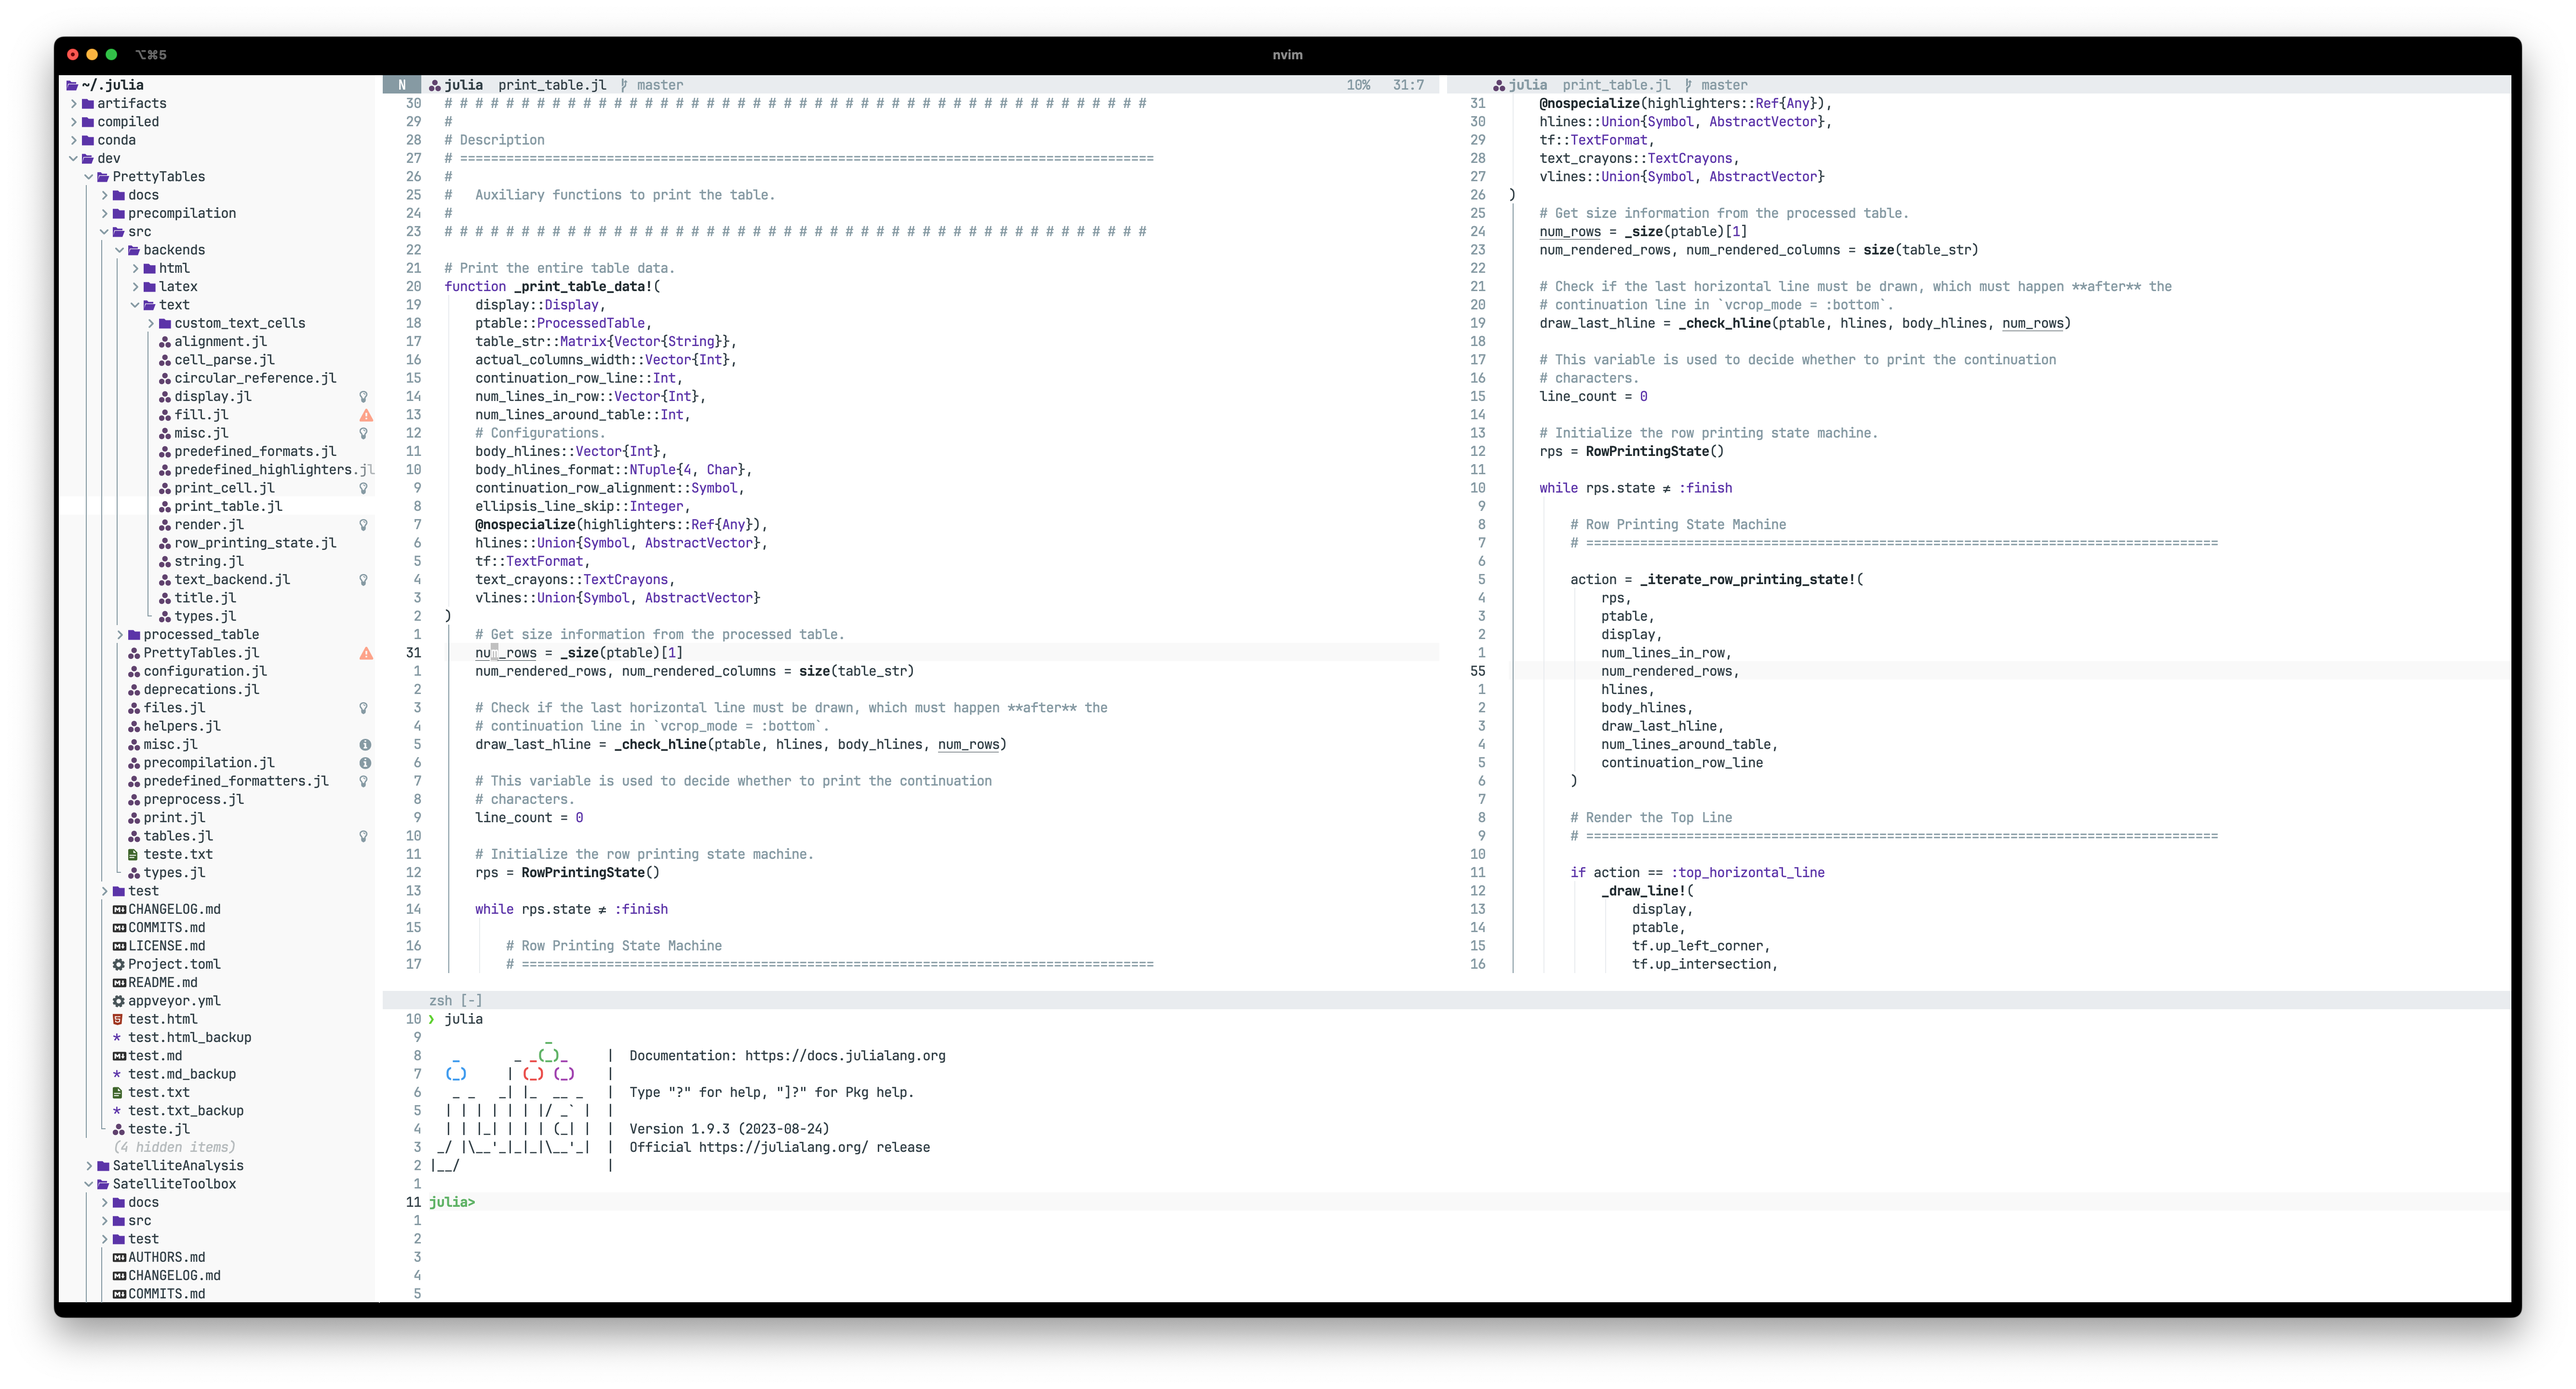
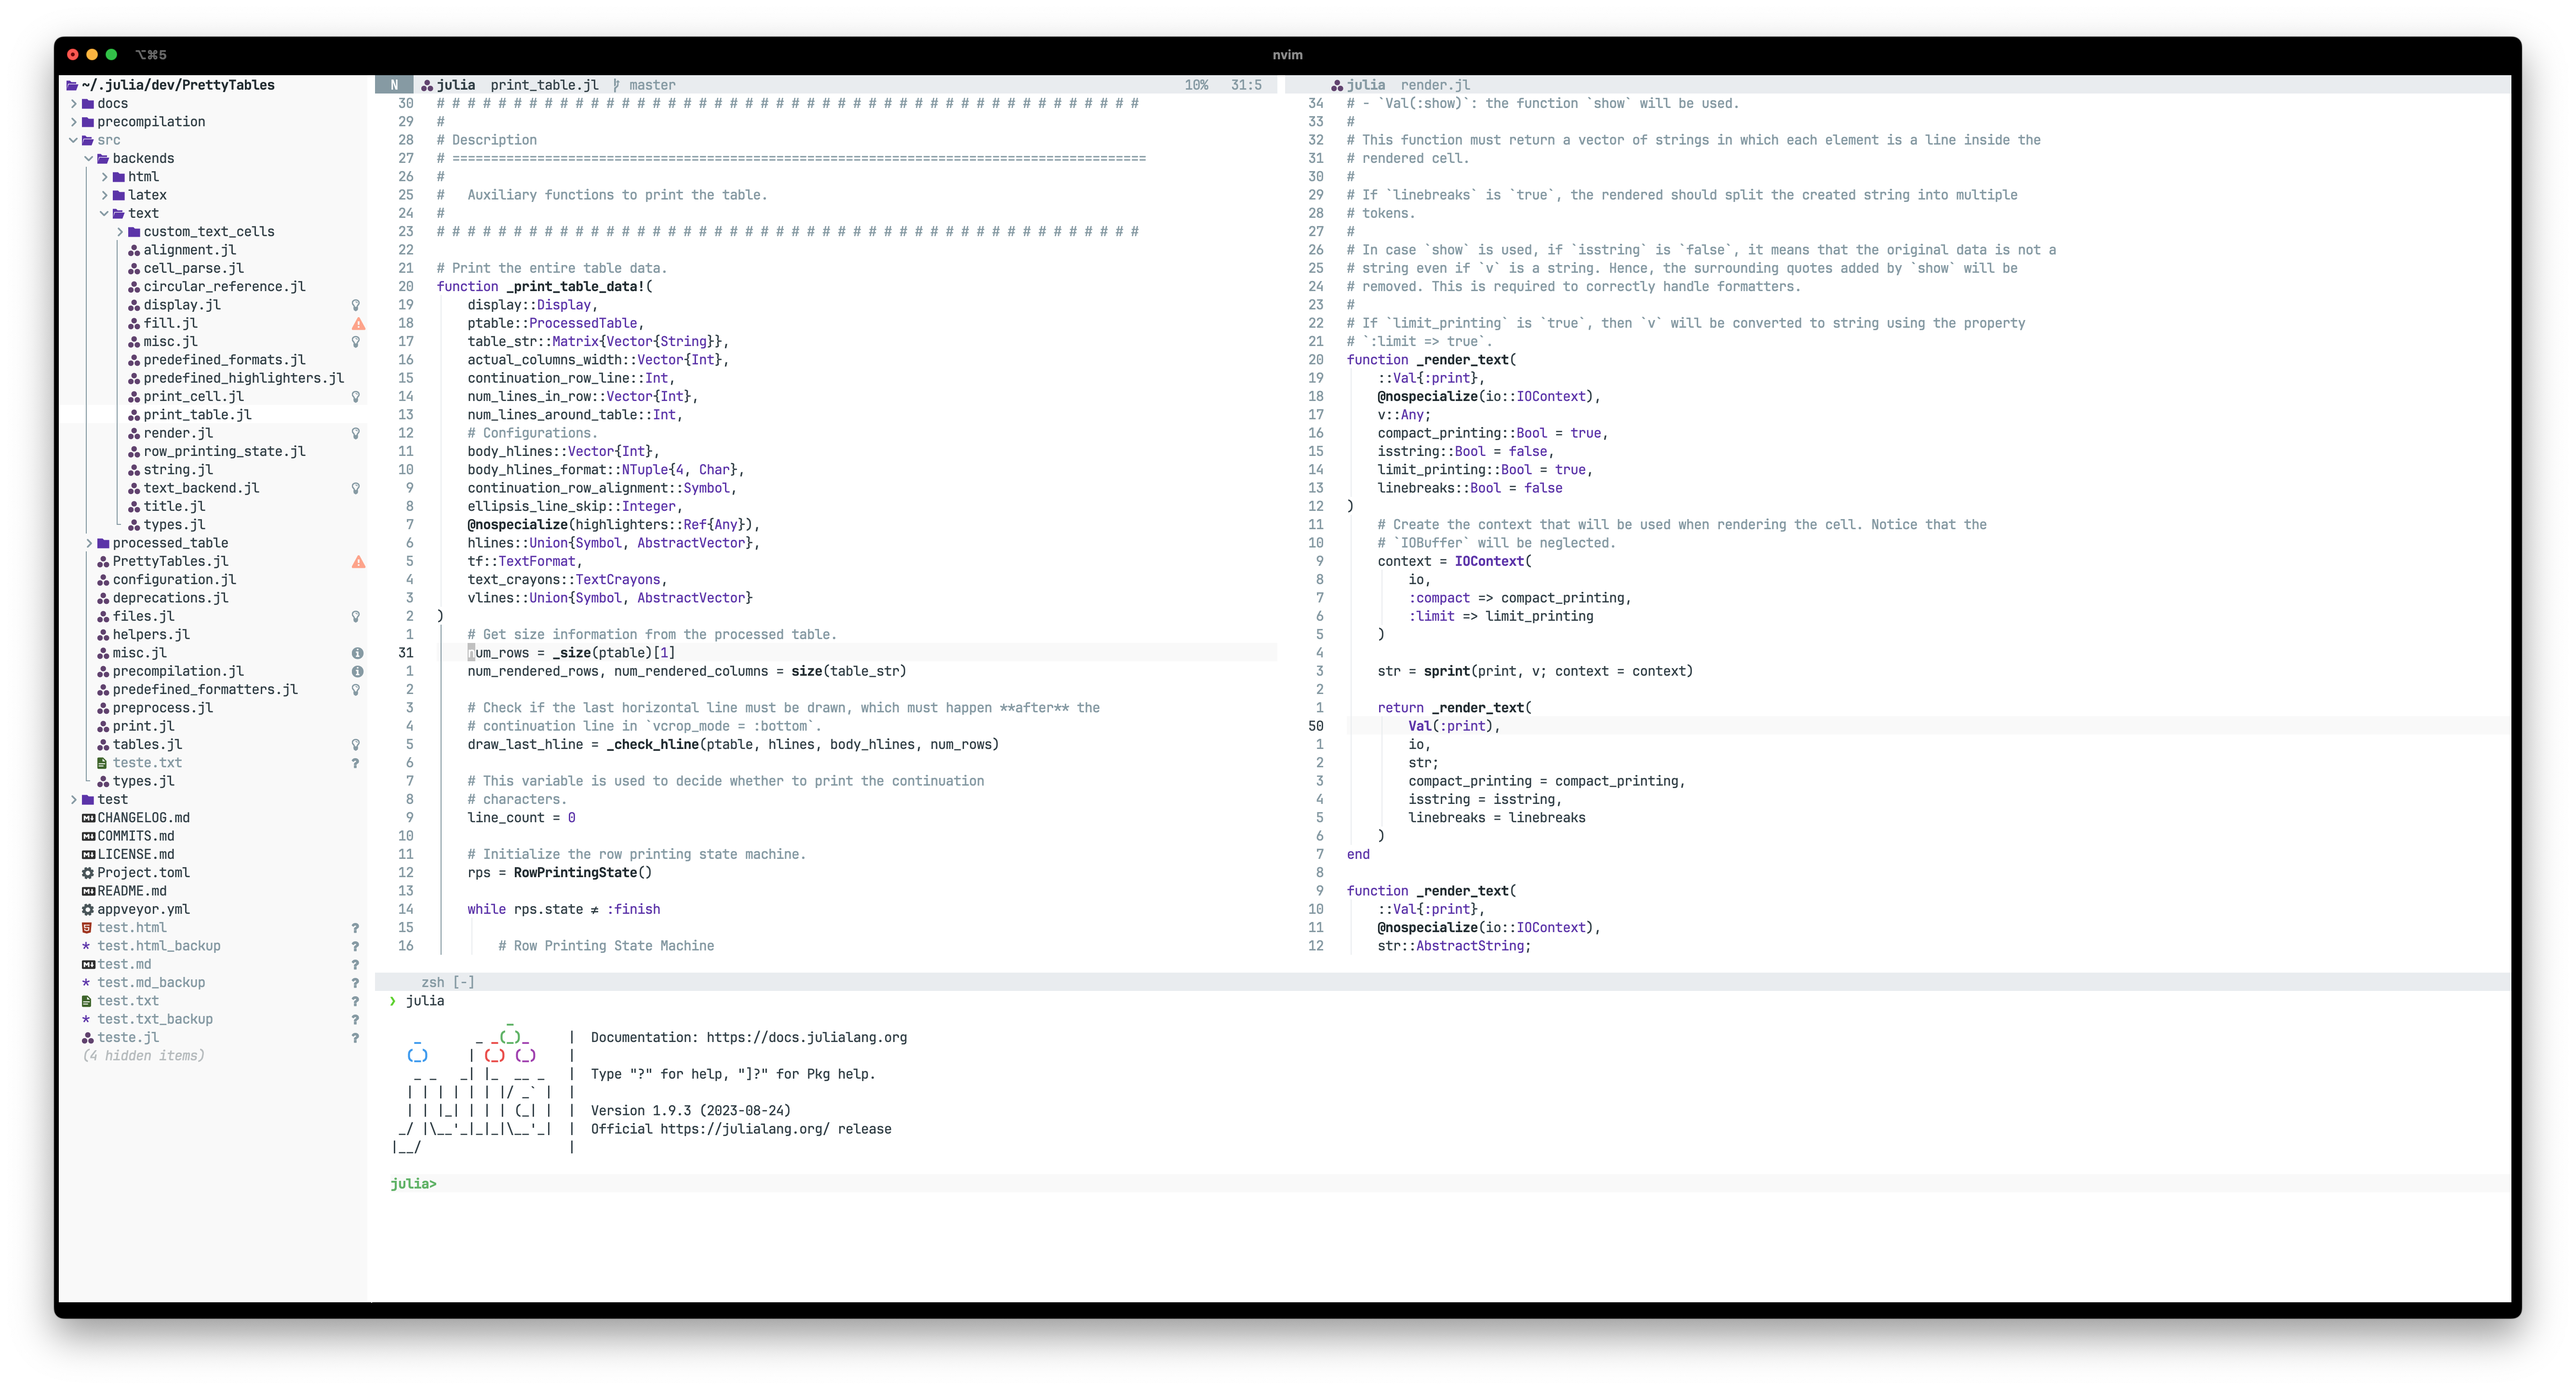
:sparkles: Add dark screenshot

diff --git a/README.md b/README.md
@@ -54,3 +54,5 @@ This plugins has been tested so far using lazy.nvim as the plugin manager:
 ## Screenshots
 
 ![Light Theme](./screenshots/screenshot_light_01.png)
+
+![Dark Theme](./screenshots/screenshot_dark_01.png)
